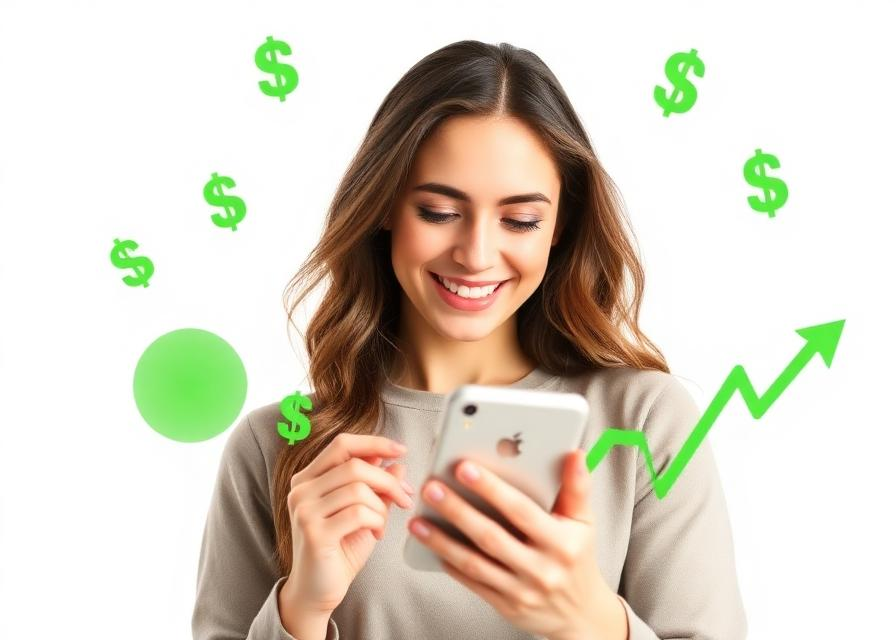
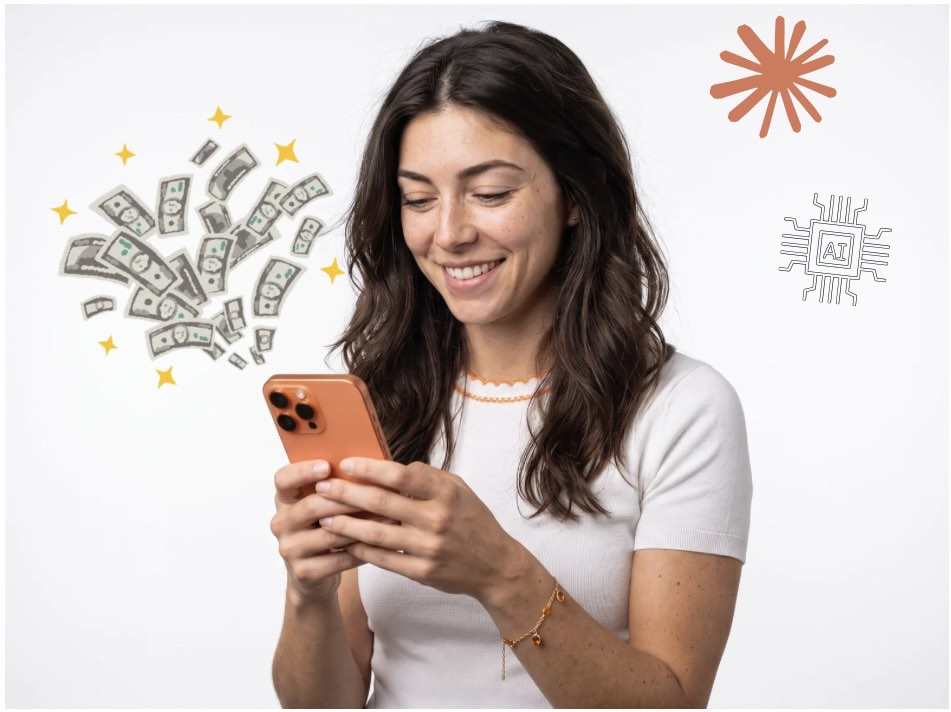
Swap the quiz income image for the new AI-money artwork
Replaces the green dollar-sign stock image on the "earning more" quiz step with
the new artwork: cash, sparkles and an AI chip around a woman on her phone.

- Converted the source PNG (152 kB) to JPEG at quality 62, matching the format of
  the neighbouring quiz assets. Landed at 88 kB — heavier than the 49 kB it
  replaces, because the soft shadows on a white field are exactly what JPEG
  compresses badly. Quality 55 only reached 79 kB, which wasn't worth the visible
  artefacting on the banknotes for 9 kB.
- Corrected width/height to the real 951x712. They were left at 896x640 from the
  old file, and a wrong intrinsic ratio makes the browser reserve the wrong box
  and shift the layout once the image loads.

Checked the crop in the browser at 375px: object-cover with maxHeight 220 renders
it 335x220, trimming ~14% of the height. Verified visually that what gets cut is
empty background — the face, the cash, the phone and the AI chip all stay in
frame; only the top of the decorative orange burst is clipped.

Resolution is deliberately left at 951px wide: the step container is 520px minus
40px of padding, so ~960px is exactly right for a 2x display.

diff --git a/landings/usa/src/quiz/QuizOverlay.tsx b/landings/usa/src/quiz/QuizOverlay.tsx
@@ -665,7 +665,7 @@ function S8() {
   const { next } = useQuiz();
   return (
     <StepShell>
-      <img src={womanIncomeImg} alt="Earning more with AI" width={896} height={640} loading="lazy" className="w-full rounded-2xl mb-6 object-cover" style={{ maxHeight: 220 }} />
+      <img src={womanIncomeImg} alt="Earning more with AI" width={951} height={712} loading="lazy" className="w-full rounded-2xl mb-6 object-cover" style={{ maxHeight: 220 }} />
       <Heading>There is nothing to worry about</Heading>
       <Sub>The question isn't whether AI will change your career — it already is. The only question is: will you be the one using it, or the one replaced by someone who does?</Sub>
       <div className="rounded-2xl p-4 mb-6 text-[14px]" style={{ background: "rgba(47,79,224,0.08)", color: C.text, border: `1px solid rgba(47,79,224,0.18)` }}>
